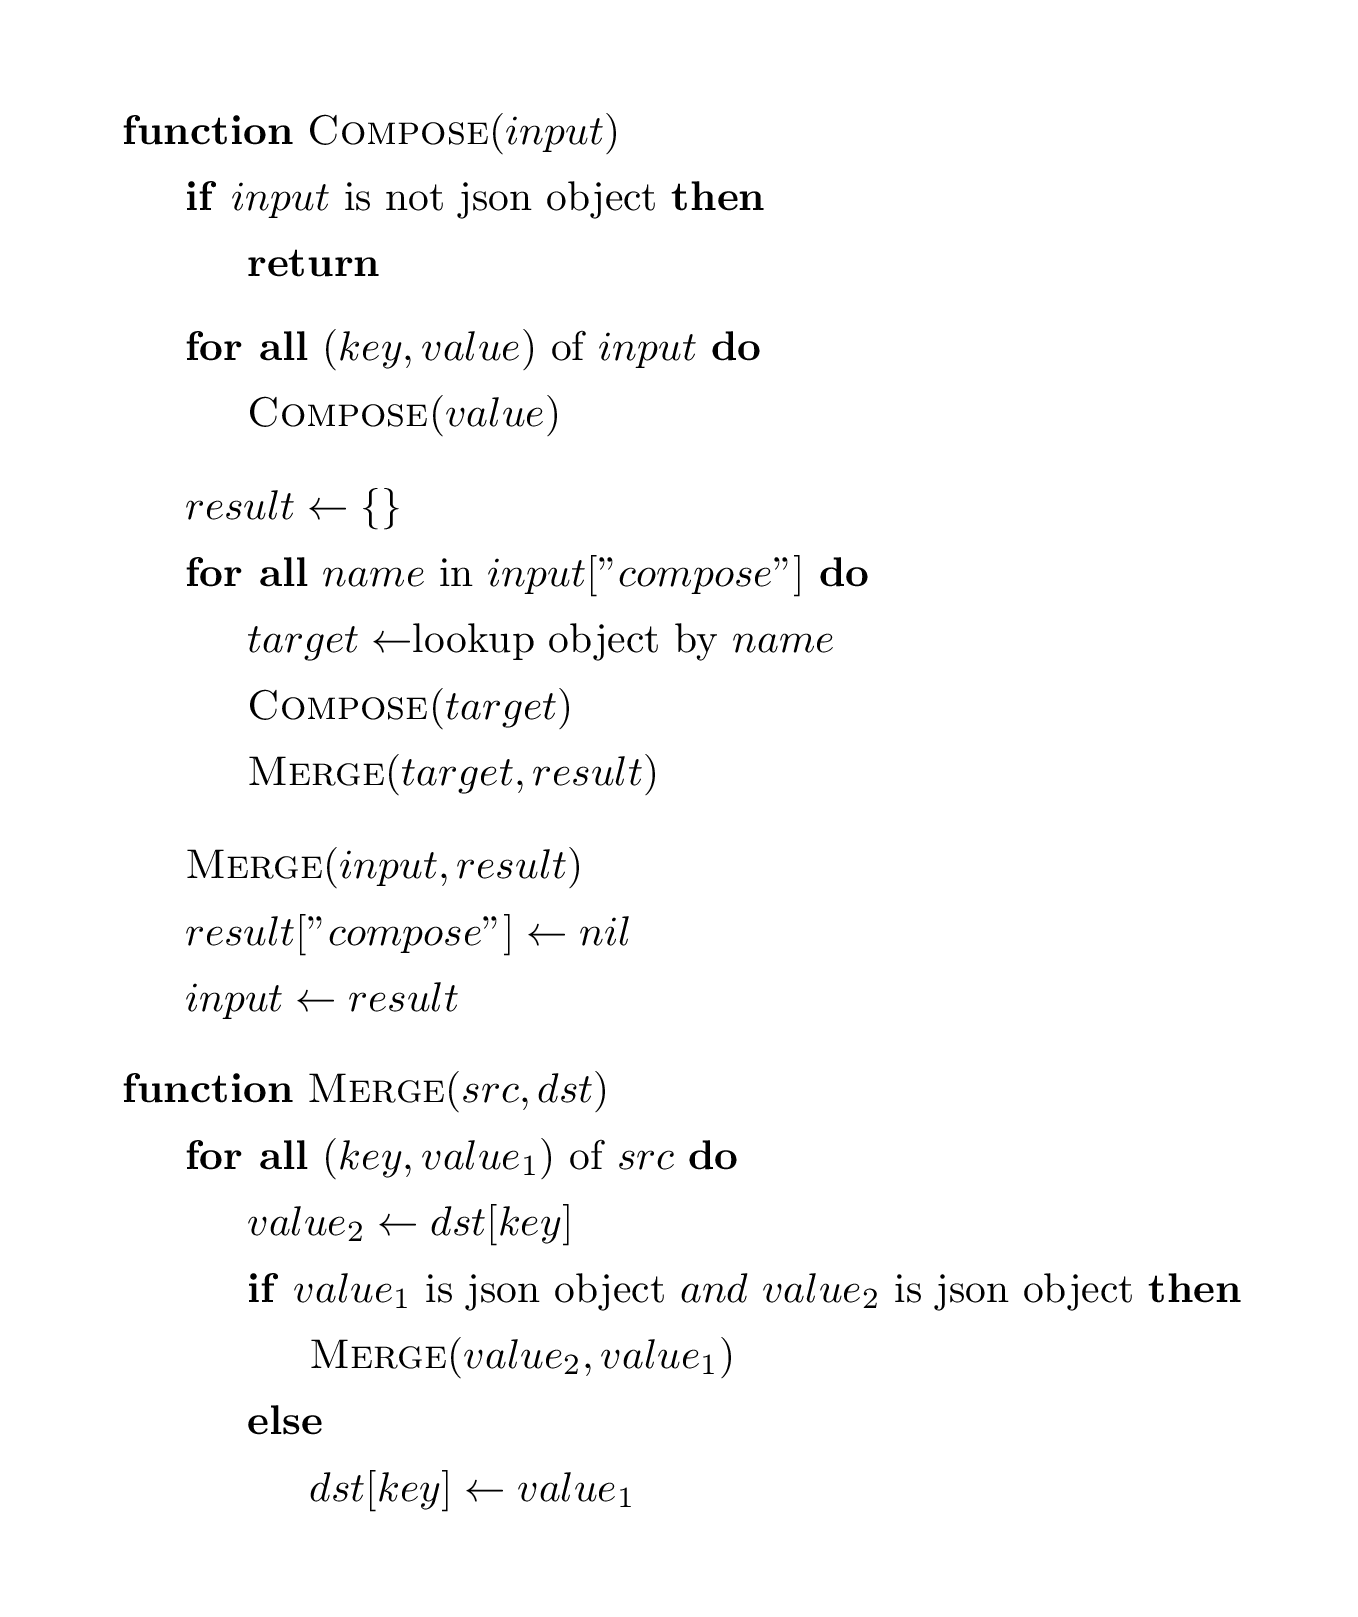
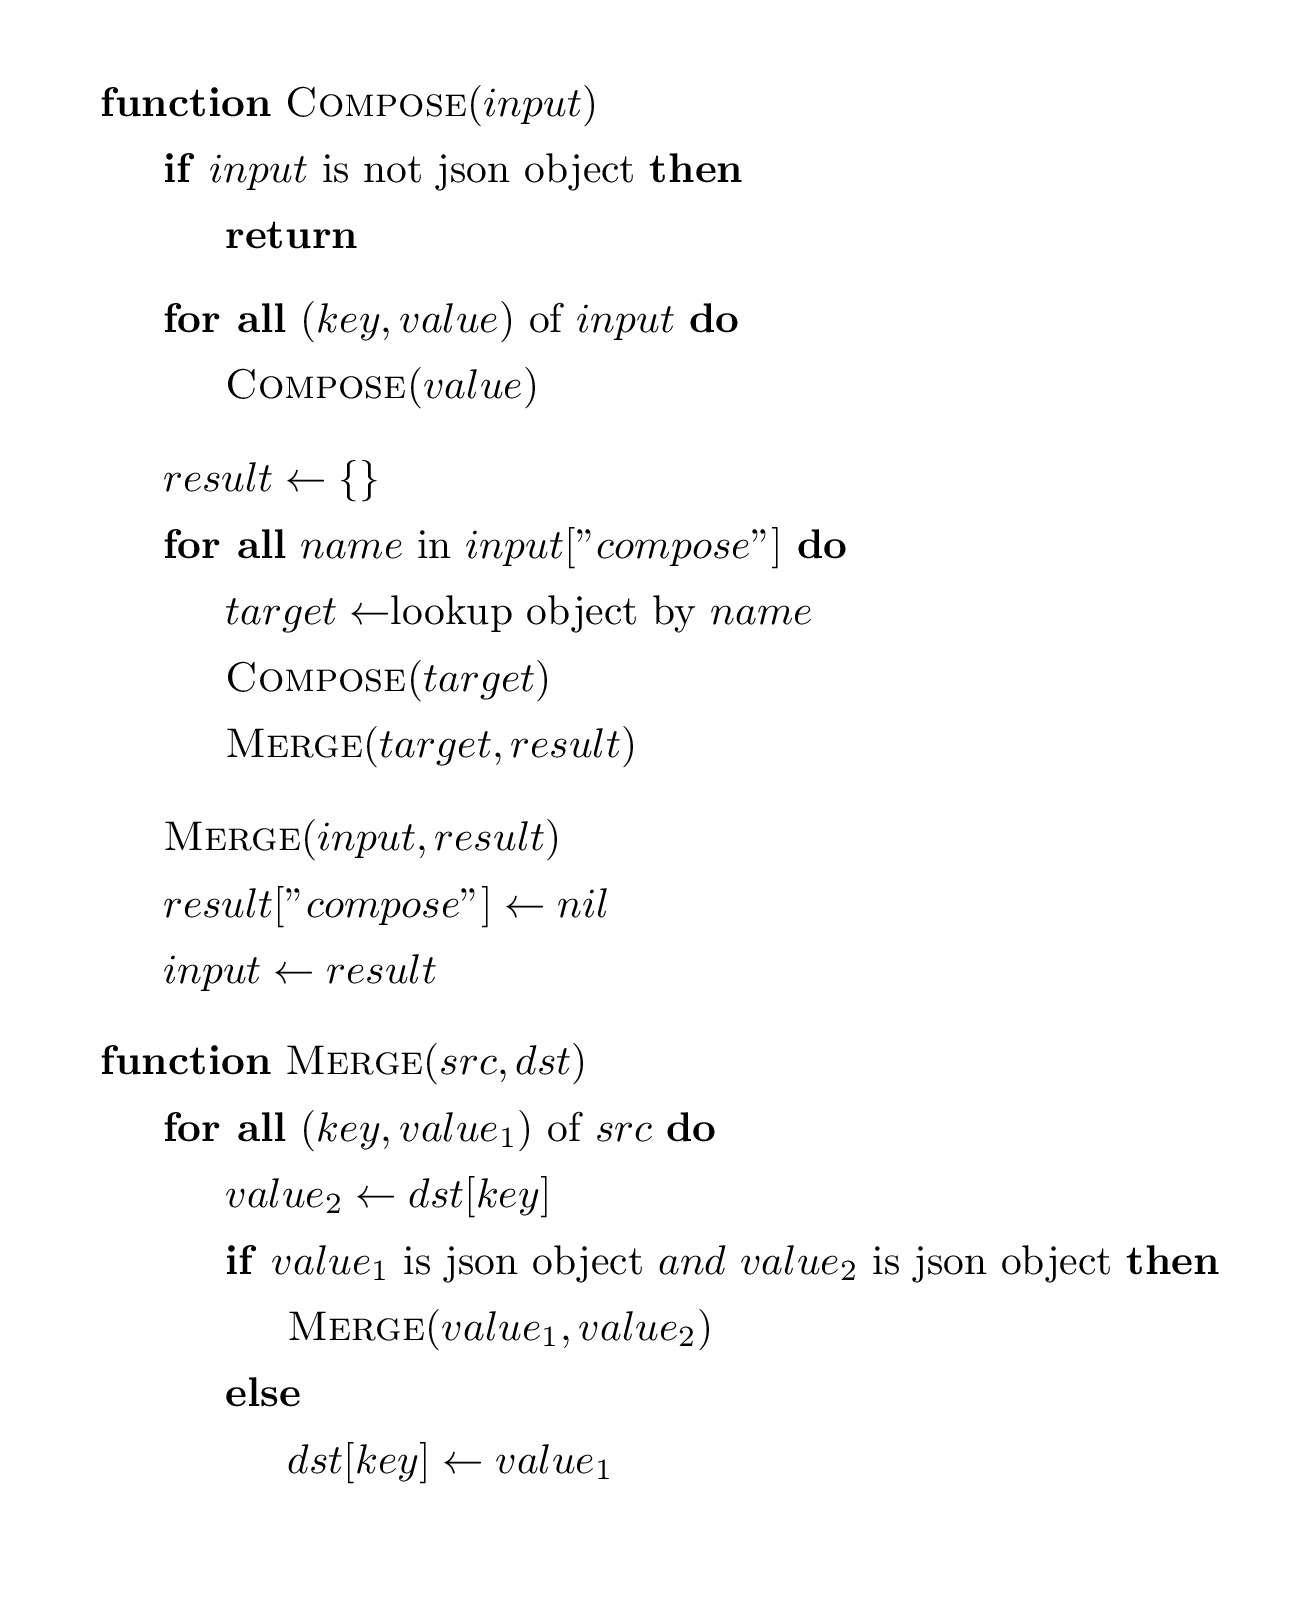
Fix typo in pseudocode.png

Changed region(s): [[0.0624, 0.0625, 0.6553, 0.625], [0.0624, 0.6562, 0.9361, 0.8438], [0.1872, 0.8438, 0.468, 0.9375]]

diff --git a/pseudocode.tex b/pseudocode.tex
@@ -6,26 +6,27 @@
 \If{$input$ is not json object}
 \State \Return
 \EndIf
-\ForAll{$child$ of $input$}
-\State \Call{Compose}{$child$}
+\ForAll{$(key,value)$ of $input$}
+\State \Call{Compose}{$value$}
 \EndFor
 \State $result \gets \{\}$
 \ForAll{$name$ in $input["compose"]$}
 \State $target \gets $lookup object by $name$
-\State \Call{Merge}{$result, target$}
+\State \Call{Compose}{$target$}
+\State \Call{Merge}{$target, result$}
 \EndFor
-\State \Call{Merge}{$result, input$}
+\State \Call{Merge}{$input, result$}
 \State $result["compose"] \gets nil$
 \State $input \gets result$
 \EndFunction
 
-\Function{Merge}{$dst,src$}
-\ForAll{$(key,val_1)$ of $src$}
-\State $val_2 \gets dst[key]$
-\If{$val_1$ is json object $and$ $val_2$ is json object}
-\State \Call{Merge}{$val_2, val_1$}
+\Function{Merge}{$src,dst$}
+\ForAll{$(key,value_1)$ of $src$}
+\State $value_2 \gets dst[key]$
+\If{$value_1$ is json object $and$ $value_2$ is json object}
+\State \Call{Merge}{$value_1, value_2$}
 \Else
-\State $dst[key] \gets val_1$
+\State $dst[key] \gets value_1$
 \EndIf
 \EndFor
 \EndFunction
